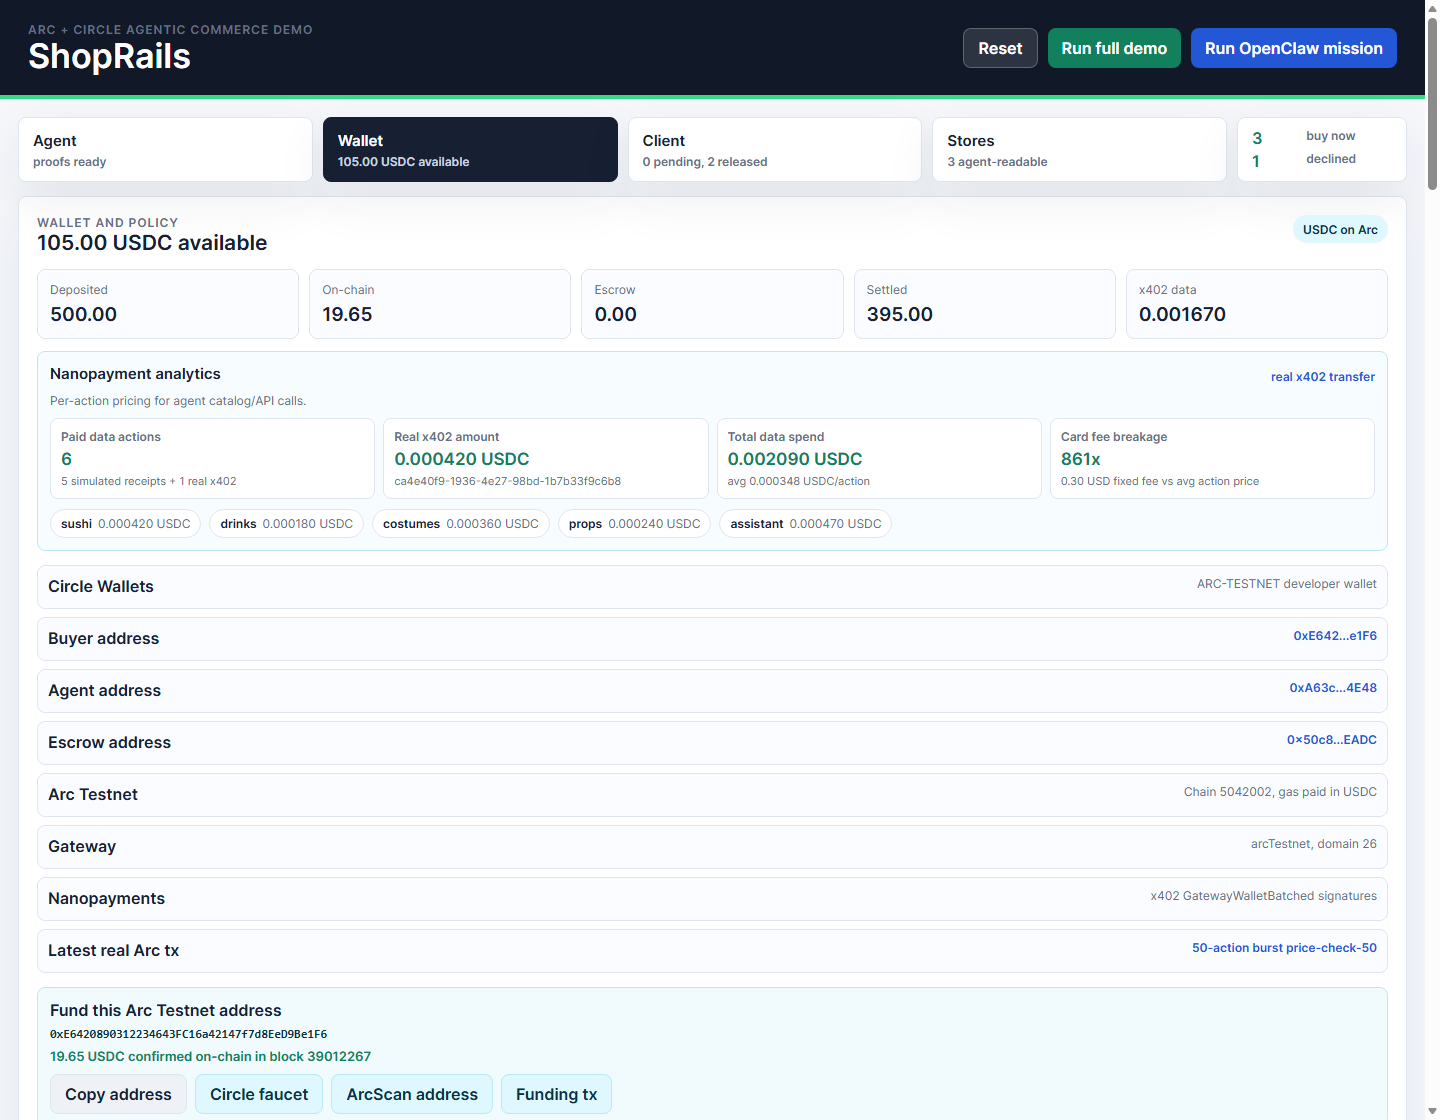
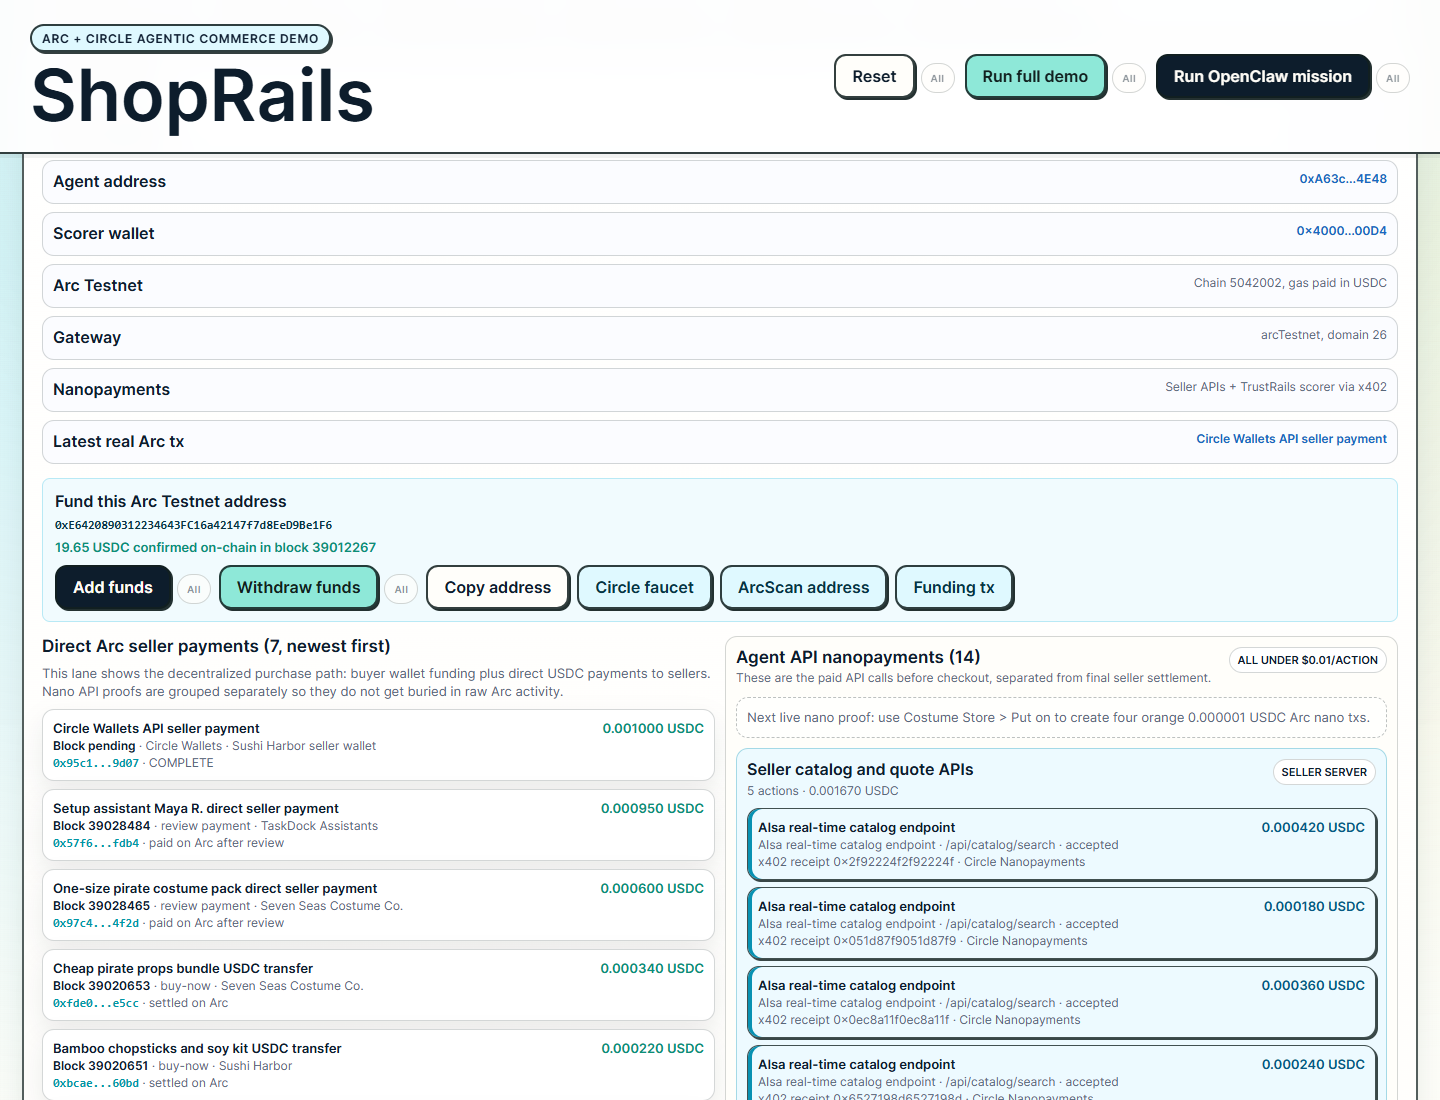
Refresh README screenshots and wallet guide

diff --git a/README.md b/README.md
@@ -40,9 +40,10 @@ ShopRails is a three-agent system transacting onchain:
 
 ### How To Use
 
-1. Get funds into USDC.
-2. Ask your agent to shop.
-3. Chat with the cart and approve the shopping-list items that need clarification.
+1. Get funds into USDC, then use the Wallet tab to add funds, draft withdrawals, and review the Arc address.
+2. Set buyer-side spend controls: daily amount, per-seller caps, blocked sellers, always-review categories, and scorer thresholds.
+3. Ask your agent to shop.
+4. Chat with the cart and approve the shopping-list items that need clarification.
 
 New demo proof: the Costume Store includes a Nano Banana virtual try-on. Click the photo button, click `Put on`, and the hosted Worker generates the try-on image while creating four fresh Circle Wallets Arc nano transactions at `0.000001 USDC` each.
 
@@ -54,7 +55,9 @@ Cloudflare is the primary demo and production-like surface. The hosted Worker ex
 
 ![ShopRails client checkout chat with escrow release state](docs/screenshots/shoprails-client-checkout.png)
 
-![ShopRails wallet and nanopayment analytics](docs/screenshots/shoprails-wallet-nanopayments.png)
+![ShopRails wallet funding, withdrawal, direct Arc payments, and separated nano lanes](docs/screenshots/shoprails-wallet-nanopayments.png)
+
+![ShopRails scorer policy setup with daily limits, per-seller caps, and blacklist controls](docs/screenshots/shoprails-wallet-policy-controls.png)
 
 ![ShopRails agent-readable merchant storefronts](docs/screenshots/shoprails-agent-readable-stores.png)
 
@@ -71,25 +74,26 @@ The buyer already has an Arc USDC wallet and asks an agent:
 ShopRails turns that request into atomic commerce actions:
 
 1. The agent decomposes the mission into sushi delivery, serving supplies, costumes, props, and setup labor.
-2. Seller API calls are paid through Circle x402/Gateway nanopayments.
-3. TrustRails, an independent scorer worker, is paid per item risk check.
-4. Merchant pages remain human-visible, but every field also includes agent-readable metadata and AI help buttons.
-5. In the Costume Store, the buyer loads `kirill_standing.jpg` and clicks `Put on`; this creates paid catalog, availability, scorer, and visualization nano actions.
-6. Trusted, low-risk items become Buy It Now.
-7. Costume and human-assistant purchases wait for buyer review.
-8. A blacklisted merchant offer is declined before any transaction is signed.
-9. The buyer reviews the cart, chats "confirm all reviewed items", and direct Arc USDC payments go to seller wallets.
-10. The proof panel links the real Circle Wallets transaction, x402 transfer, Arc transaction proof, virtual try-on nano txs, and a 50-transaction Arc frequency burst.
+2. The buyer can adjust wallet policy before the run: daily budget, per-seller daily caps, blacklisted sellers, category caps, and scorer risk cutoffs.
+3. Seller API calls are paid through Circle x402/Gateway nanopayments.
+4. TrustRails, an independent scorer worker, is paid per item risk check.
+5. Merchant pages remain human-visible, but every field and action button also includes agent-readable metadata and AII instructions.
+6. In the Costume Store, the buyer loads `kirill_standing.jpg` and clicks `Put on`; this creates paid catalog, availability, scorer, and visualization nano actions.
+7. Trusted, low-risk items become Buy It Now.
+8. Costume and human-assistant purchases wait for buyer review.
+9. A blacklisted merchant offer is declined before any transaction is signed.
+10. The buyer reviews the cart, chats "confirm all reviewed items", and direct Arc USDC payments go to seller wallets.
+11. The proof panel links the real Circle Wallets transaction, x402 transfer, Arc transaction proof, virtual try-on nano txs, and a 50-transaction Arc frequency burst.
 
 ## Impact
 
-Agents are blocked from entering card numbers for good reasons: cards are broad, revocable credentials with weak per-intent controls. ShopRails replaces that with programmable USDC payment rails where the buyer can set budgets, per-category caps, whitelist and blacklist rules, risk thresholds, review stages, and escrow release requirements.
+Agents are blocked from entering card numbers for good reasons: cards are broad, revocable credentials with weak per-intent controls. ShopRails replaces that with programmable USDC payment rails where the buyer can add funds, draft withdrawals, set daily spend limits, per-seller caps, per-category caps, whitelist and blacklist rules, risk thresholds, review stages, and scorer inputs before money moves.
 
 For merchants and API sellers, this also unlocks sub-cent pricing. A catalog query can cost `0.00042 USDC`, and a transaction-frequency demo can run 50 onchain actions at `0.000001 USDC` each. That model fails on card rails because fixed fees dominate the revenue, but it becomes viable with Arc's USDC-native settlement and Circle's agent-friendly infrastructure.
 
 ## System Architecture
 
-ShopRails is one buyer-facing web app plus three deployed service workers: a buyer server, a seller server, and an independent TrustRails scorer. The UI has five demo surfaces: agent activity/proof log, wallet and nanopayment analytics, client checkout chat, scorer checks, and three mini merchant stores for sushi delivery, pirate costumes, and human assistant services.
+ShopRails is one buyer-facing web app plus three deployed service workers: a buyer server, a seller server, and an independent TrustRails scorer. The UI has five demo surfaces: agent activity/proof log, wallet funding and nanopayment analytics, client checkout chat, scorer checks, and three mini merchant stores for sushi delivery, pirate costumes, and human assistant services. The Wallet tab is also the policy setup surface for controls the scorer uses later: daily limits, per-seller limits, blacklists, allowlists, review thresholds, and category caps.
 
 ```mermaid
 flowchart TD
@@ -245,9 +249,10 @@ The safest hackathon path is click-only:
 1. Click `Run full demo` or `Run perfect hackathon demo`.
 2. Point to the Judge proof panel.
 3. Open the Circle Wallets ArcScan tx, x402 transfer proof, escrow contract, and 50+ Arc tx proof if asked.
-4. Open `Stores > Costume Store`, click `Load Kirill photo`, then click `Put on`.
-5. Open `Wallet` and point to the highlighted Virtual try-on nano transactions.
-6. Use the prefilled cart chat, `confirm all reviewed items`, to show review release.
+4. Open `Wallet` and point to `Add funds`, `Withdraw funds`, daily spend limits, seller caps, and blacklist controls.
+5. Open `Stores > Costume Store`, click `Load Kirill photo`, then click `Put on`.
+6. Return to `Wallet` and point to the highlighted virtual try-on nano transactions.
+7. Use the prefilled cart chat, `confirm all reviewed items`, to show review release.
 
 Useful commands:
 
